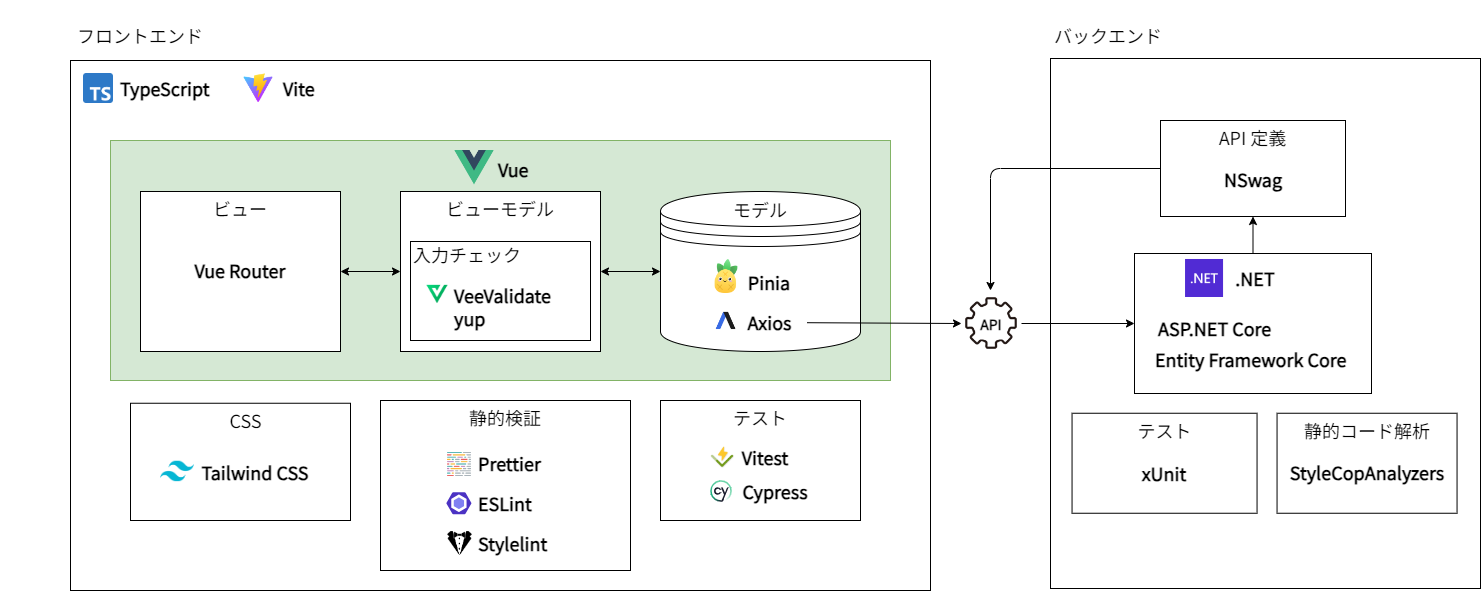
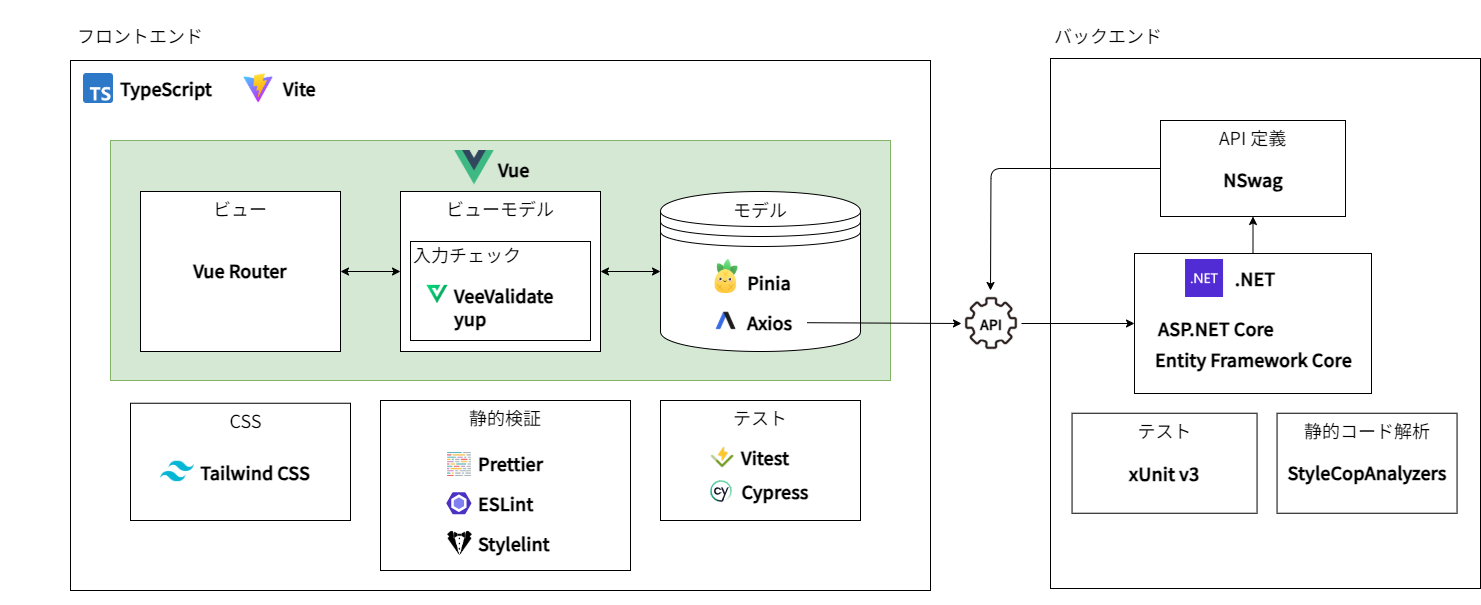
xUnit v3移行によるドキュメント修正 (#2563)
* xunit.v3移行に伴いドキュメントを修正。

* 不要な設定を削除しlintエラーに対応。

* xUnit v3に修正。

* スペルミス修正。

* 技術スタックの画像を修正。

* テンプレートインストール用のコマンドを分けて記載。

* csprojファイルの説明を修正。

* 不要な記載を削除。

* プロジェクトテンプレートのURLを追加。

* ハイライト行を修正。

diff --git a/documents/contents/samples/console-app-with-di/index.md b/documents/contents/samples/console-app-with-di/index.md
@@ -53,7 +53,7 @@ Maris.Samples.Cli.exe get-by-unit-price-range --minimum 2000 --maximum 3000
 
 - テストプロジェクト
     - [Moq :material-open-in-new:](https://www.nuget.org/packages/Moq/){ target=_blank }
-    - [xunit :material-open-in-new:](https://www.nuget.org/packages/xunit/){ target=_blank }
+    - [xunit.v3 :material-open-in-new:](https://www.nuget.org/packages/xunit.v3/){ target=_blank }
 
 ## ダウンロード {#download}
 

diff --git a/documents/contents/app-architecture/client-side-rendering/csr-architecture-overview.md b/documents/contents/app-architecture/client-side-rendering/csr-architecture-overview.md
@@ -88,7 +88,7 @@ AlesInfiny Maris OSS Edition （以降、 AlesInfiny Maris ）を構成する OS
 
           実装済みの Web API から OpenAPI 仕様書を生成します。
 
-    - [xUnit :material-open-in-new:](https://xunit.net/){ target=_blank }
+    - [xUnit v3 :material-open-in-new:](https://xunit.net/){ target=_blank }
 
           .NET で利用可能なテストフレームワークです。
 
